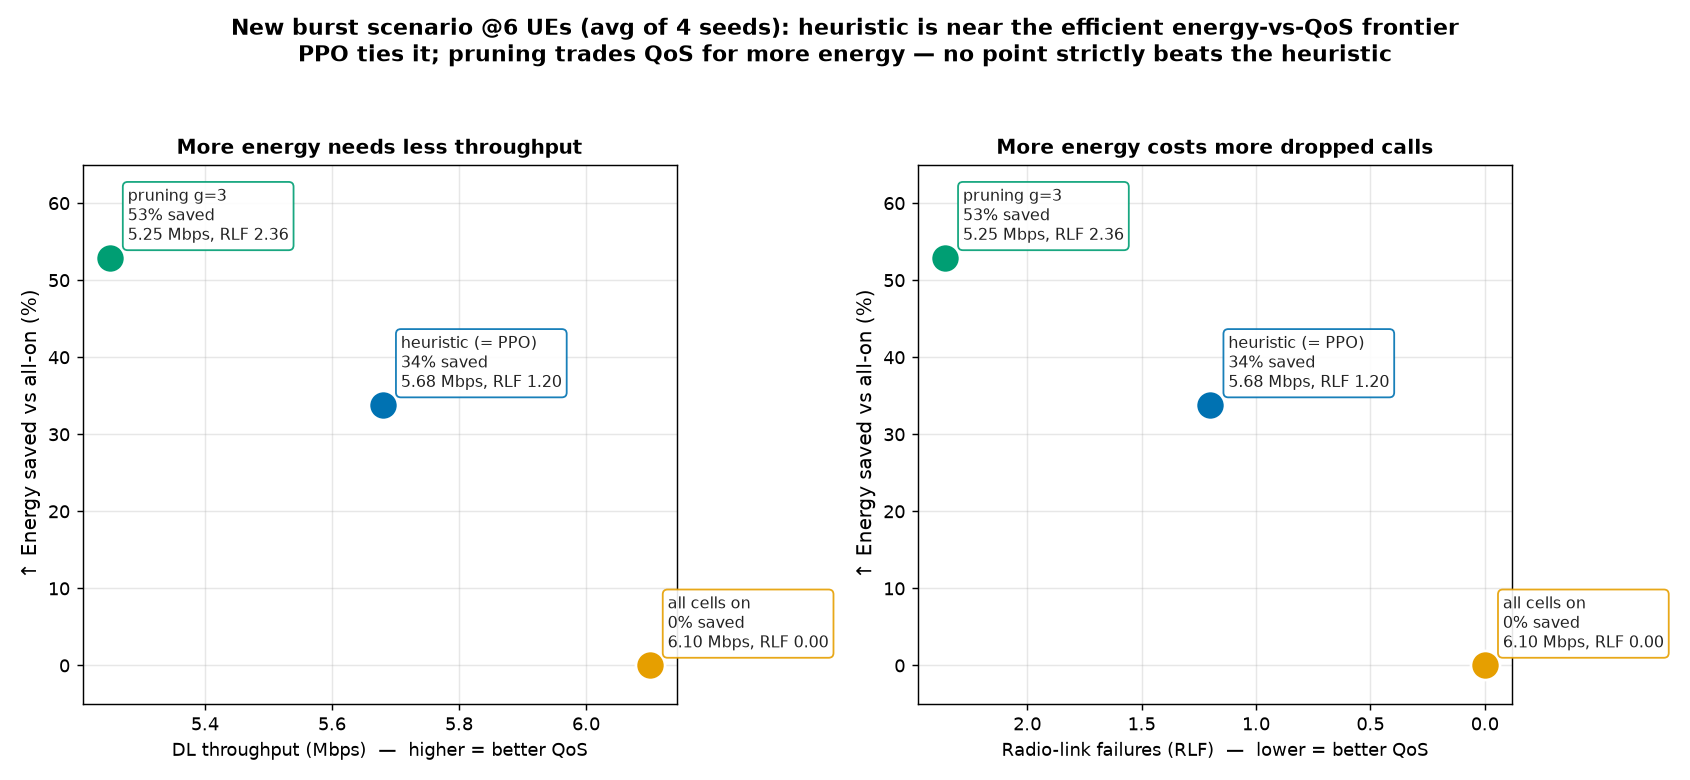
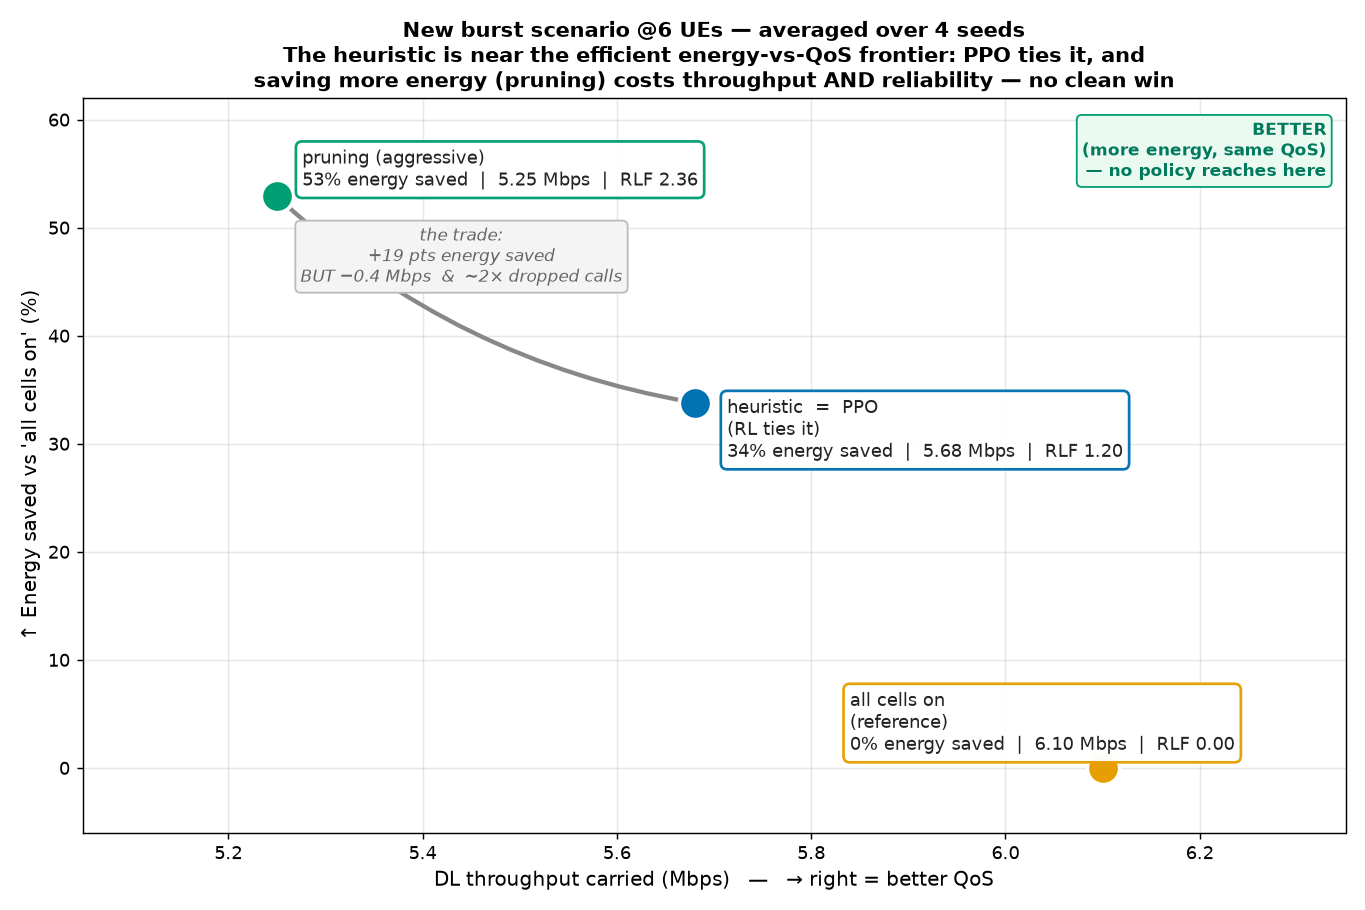
viz: single-panel summary (was two redundant panels with identical points)
The old 2-panel version plotted the SAME 3 points against throughput and RLF;
since both worsen together the panels looked identical and repeated the same
label text. Replace with one energy-vs-throughput scatter that carries RLF in
each label + an arrow showing the heuristic->pruning trade (+19pp energy, but
-0.4 Mbps & ~2x drops) and a 'BETTER' corner no policy reaches.

diff --git a/plot_summary.py b/plot_summary.py
@@ -1,43 +1,50 @@
 #!/usr/bin/env python3
-"""plot_summary.py - honest averaged summary of the new (burst) scenario results,
-over seeds 555/777/999/1234. Two panels: energy saved vs throughput, and energy
-saved vs RLF (reliability). Shows the heuristic (= the tied PPO policy) and the
-aggressive pruning controller as points on the SAME energy-vs-QoS frontier."""
+"""plot_summary.py - single-panel honest summary of the new (burst) scenario,
+averaged over 4 seeds (555/777/999/1234). One scatter: energy saved (y) vs
+throughput (x); each point also carries its RLF (dropped calls) in the label, and
+an arrow shows the heuristic->pruning trade. All-on is the reference at 0% saved."""
 import matplotlib
 matplotlib.use("Agg")
 import matplotlib.pyplot as plt
 
-# averaged over 4 seeds
-pts = {  # name: (throughput Mbps, energy saved %, RLF, color)
-    "all cells on":       (6.10, 0.0,  0.00, "#E69F00"),
-    "heuristic (= PPO)":  (5.68, 33.8, 1.20, "#0072B2"),
-    "pruning g=3":        (5.25, 52.9, 2.36, "#009E73"),
+# 4-seed averages: (label, throughput Mbps, energy saved %, RLF, color, label-offset)
+P = {
+    "allon": ("all cells on\n(reference)",         6.10,  0.0, 0.00, "#E69F00", (-140, 10)),
+    "heur":  ("heuristic  =  PPO\n(RL ties it)",    5.68, 33.8, 1.20, "#0072B2", (18, -30)),
+    "prune": ("pruning (aggressive)",               5.25, 52.9, 2.36, "#009E73", (14, 6)),
 }
 INK, MUTE = "#222222", "#666666"
-fig, (ax1, ax2) = plt.subplots(1, 2, figsize=(13, 6))
+fig, ax = plt.subplots(figsize=(10.5, 7))
 
-for ax, xi, xlabel, xinv in [
-    (ax1, 0, "DL throughput (Mbps)  —  higher = better QoS", False),
-    (ax2, 2, "Radio-link failures (RLF)  —  lower = better QoS", True)]:
-    for name, v in pts.items():
-        ax.scatter(v[xi], v[1], s=260, color=v[3], edgecolor="white", lw=1.5, zorder=3)
-        ax.annotate(f"{name}\n{v[1]:.0f}% saved\n{v[0]:.2f} Mbps, RLF {v[2]:.2f}",
-                    (v[xi], v[1]), textcoords="offset points", xytext=(10, 10),
-                    fontsize=9, color=INK,
-                    bbox=dict(boxstyle="round,pad=0.3", fc="white", ec=v[3], alpha=0.9))
-    ax.set_xlabel(xlabel, fontsize=10)
-    ax.set_ylabel("↑ Energy saved vs all-on (%)", fontsize=11)
-    ax.grid(alpha=0.3)
-    ax.set_ylim(-5, 65)
-    if xinv:
-        ax.invert_xaxis()  # so "better QoS" (low RLF) is on the right in both panels
+for name, thr, saved, rlf, col, off in P.values():
+    ax.scatter(thr, saved, s=320, color=col, edgecolor="white", lw=2, zorder=4)
+    ax.annotate(f"{name}\n{saved:.0f}% energy saved  |  {thr:.2f} Mbps  |  RLF {rlf:.2f}",
+                (thr, saved), textcoords="offset points", xytext=off,
+                fontsize=10, color=INK, zorder=5,
+                bbox=dict(boxstyle="round,pad=0.35", fc="white", ec=col, lw=1.5, alpha=0.97))
 
-ax1.set_title("More energy needs less throughput", fontsize=11, fontweight="bold")
-ax2.set_title("More energy costs more dropped calls", fontsize=11, fontweight="bold")
-fig.suptitle("New burst scenario @6 UEs (avg of 4 seeds): heuristic is near the efficient "
-             "energy-vs-QoS frontier\nPPO ties it; pruning trades QoS for more energy — no point "
-             "strictly beats the heuristic",
-             fontsize=12, fontweight="bold")
-fig.tight_layout(rect=[0, 0, 1, 0.94])
+# the trade: heuristic -> pruning
+h, p = P["heur"], P["prune"]
+ax.annotate("", xy=(p[1], p[2]), xytext=(h[1], h[2]),
+            arrowprops=dict(arrowstyle="-|>", color="#888888", lw=2.4,
+                            connectionstyle="arc3,rad=-0.15"), zorder=2)
+ax.annotate("the trade:\n+19 pts energy saved\nBUT −0.4 Mbps  &  ~2× dropped calls",
+            xy=(5.44, 45), fontsize=9.5, color="#666666", ha="center", style="italic",
+            bbox=dict(boxstyle="round,pad=0.3", fc="#f4f4f4", ec="#bbbbbb"))
+
+ax.set_xlabel("DL throughput carried (Mbps)   —   → right = better QoS", fontsize=11)
+ax.set_ylabel("↑ Energy saved vs 'all cells on' (%)", fontsize=11)
+ax.set_title("New burst scenario @6 UEs — averaged over 4 seeds\n"
+             "The heuristic is near the efficient energy-vs-QoS frontier: PPO ties it, "
+             "and\nsaving more energy (pruning) costs throughput AND reliability — no clean win",
+             fontsize=11.5, fontweight="bold")
+ax.grid(alpha=0.3)
+ax.set_xlim(5.05, 6.35); ax.set_ylim(-6, 62)
+# "better" corner cue
+ax.annotate("BETTER\n(more energy, same QoS)\n— no policy reaches here",
+            xy=(0.985, 0.97), xycoords="axes fraction", ha="right", va="top",
+            fontsize=9.5, fontweight="bold", color="#00795c",
+            bbox=dict(boxstyle="round", fc="#eafaf1", ec="#009E73"))
+fig.tight_layout()
 fig.savefig("summary_tradeoff.png", dpi=130)
 print("saved: summary_tradeoff.png")
